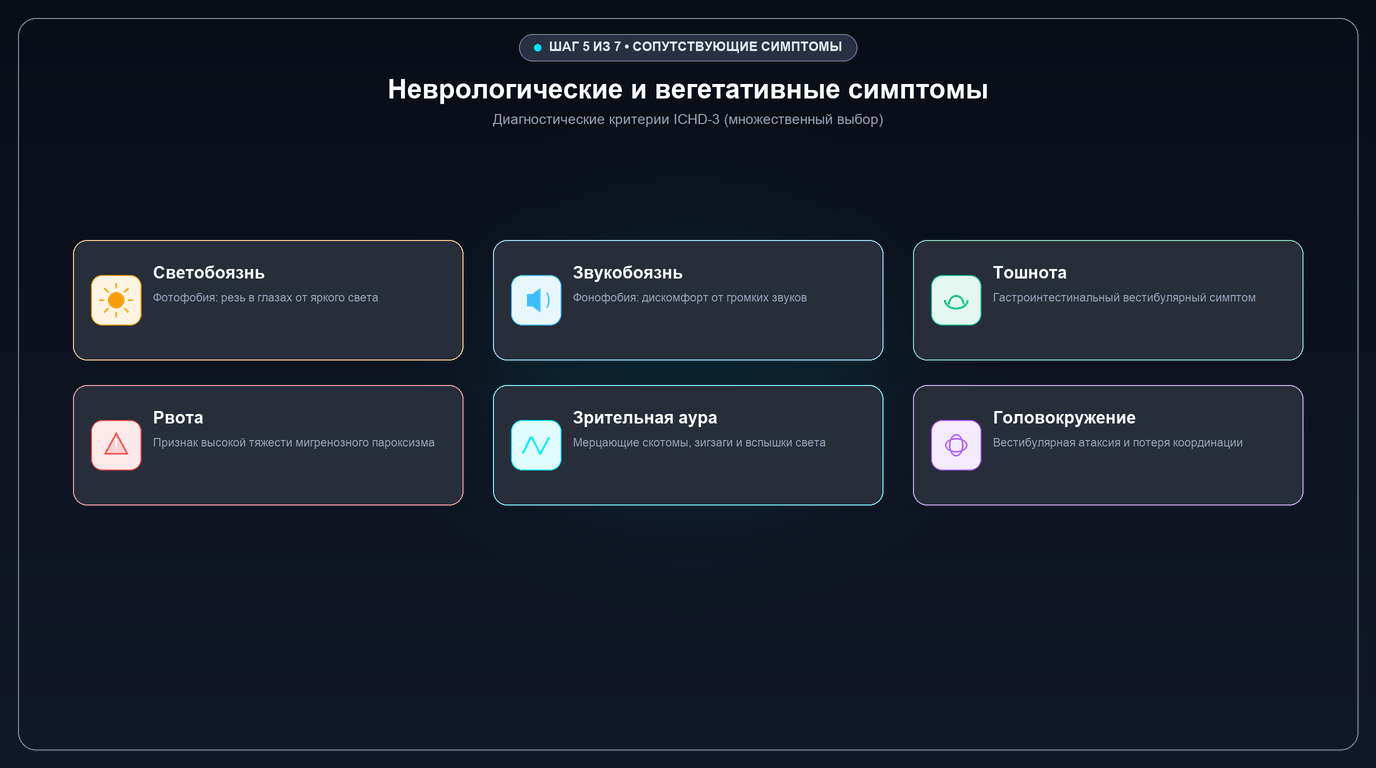
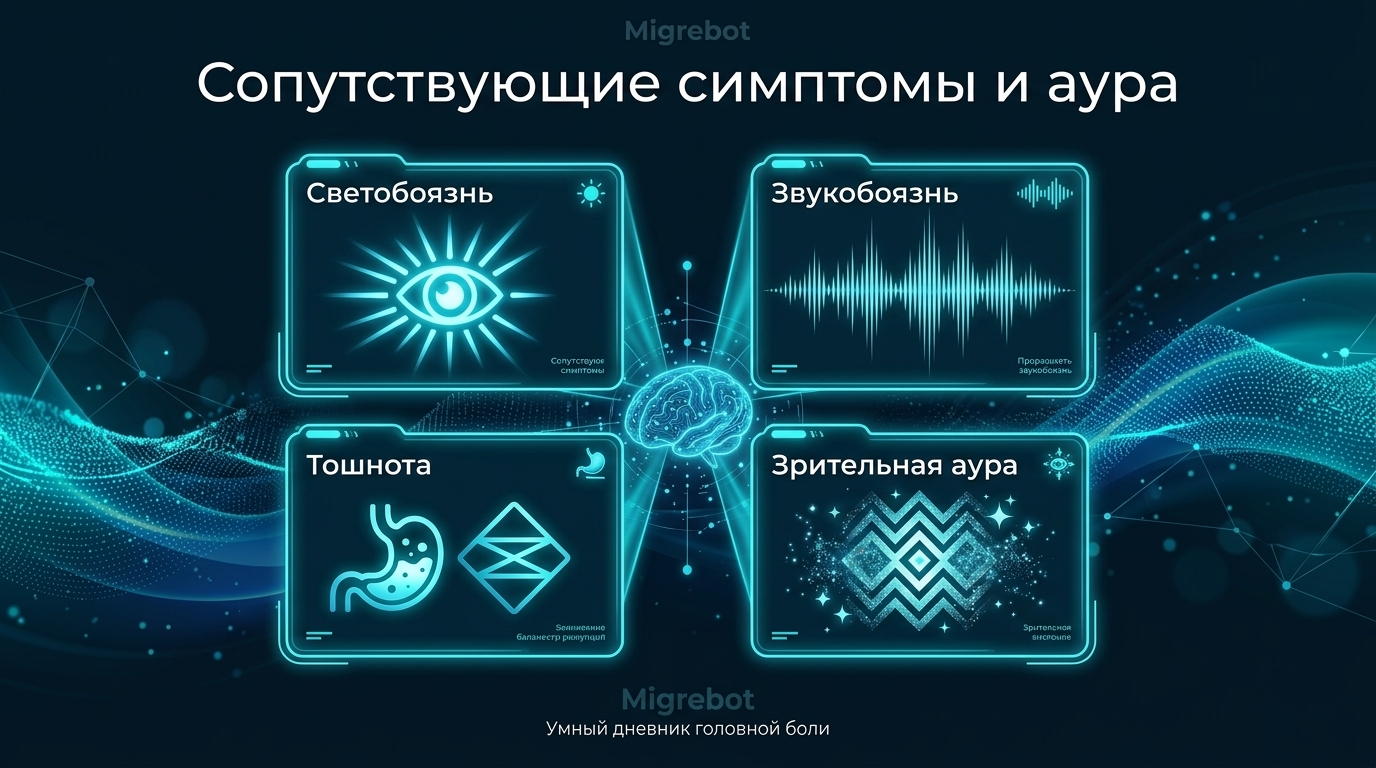
feat: redesign visual assets with high-tech UI graphics and update documentation

diff --git a/handlers/headache.py b/handlers/headache.py
@@ -51,7 +51,7 @@ def get_step_asset(step_name: str, lang: str = "ru") -> Path:
         "location": "steps/location.png",
         "pain_type": "steps/pain_type.png",
         "symptoms": "steps/symptoms.png",
-        "triggers": "steps/symptoms.png",
+        "triggers": "steps/triggers.png",
         "medication": "steps/medication.png",
         "medication_time": "steps/medication.png",
         "relief_time": "steps/saved.png",

diff --git a/tests/test_flow.py b/tests/test_flow.py
@@ -929,6 +929,7 @@ class TestHeadacheFlow(unittest.IsolatedAsyncioTestCase):
             "steps/location.png",
             "steps/pain_type.png",
             "steps/symptoms.png",
+            "steps/triggers.png",
             "steps/medication.png",
             "steps/confirm.png",
             "steps/saved.png",

diff --git a/README.md b/README.md
@@ -65,7 +65,7 @@
 ## 🌟 Основные возможности
 
 ### 1. ⏱ Пошаговый FSM-опросник с динамической сменой карточек
-- **Интерактивные переходы (`edit_media`)**: На каждом из этапов опросника в сообщении мгновенно и плавно меняется минималистичная медицинская иллюстрация (`start_time.png` ➔ `pain_scale.png` ➔ `location.png` ➔ `pain_type.png` ➔ `symptoms.png` ➔ `medication.png` ➔ `confirm.png` ➔ `saved.png`) в выбранной локали (RU/EN).
+- **Интерактивные переходы (`edit_media`)**: На каждом из этапов опросника в сообщении мгновенно и плавно сменяются высокотехнологичные визуальные карточки (`start_time.png` ➔ `pain_scale.png` ➔ `location.png` ➔ `pain_type.png` ➔ `symptoms.png` ➔ `triggers.png` ➔ `medication.png` ➔ `confirm.png` ➔ `saved.png`) в выбранной локали (RU/EN).
 - **Время начала**: Быстрые пресеты (*Прямо сейчас, 30 минут назад, 1 час, 2 часа назад*) или ввод точного времени вручную (`ЧЧ:ММ` или `ГГГГ-ММ-ДД ЧЧ:ММ`).
 - **Шкала боли (1–10)**: Интуитивная градация от едва ощутимой (1) до невыносимой (10).
 - **Локализация**: Слева, справа, с обеих сторон, лоб и виски, затылок, диффузная боль (вся голова).
@@ -148,6 +148,65 @@
   <img src="assets/images/ru/flow_diagram.png" alt="Сценарий работы Migrebot" width="100%" style="border-radius: 12px; box-shadow: 0 8px 24px rgba(0,0,0,0.15);" />
 </div>
 
+<br>
+
+### 🖼 Визуальная галерея экранов и карточек опросника
+
+<div align="center">
+<table>
+  <tr>
+    <td align="center" width="50%">
+      <b>⏱ Шаг 1: Время начала приступа</b><br>
+      <img src="assets/images/ru/steps/start_time.png" width="100%" style="border-radius: 8px; margin-top: 6px;" />
+    </td>
+    <td align="center" width="50%">
+      <b>📊 Шаг 2: Шкала интенсивности боли (1–10)</b><br>
+      <img src="assets/images/ru/steps/pain_scale.png" width="100%" style="border-radius: 8px; margin-top: 6px;" />
+    </td>
+  </tr>
+  <tr>
+    <td align="center" width="50%">
+      <b>🎯 Шаг 3: Локализация цефалгии</b><br>
+      <img src="assets/images/ru/steps/location.png" width="100%" style="border-radius: 8px; margin-top: 6px;" />
+    </td>
+    <td align="center" width="50%">
+      <b>⚡ Шаг 4: Характер боли</b><br>
+      <img src="assets/images/ru/steps/pain_type.png" width="100%" style="border-radius: 8px; margin-top: 6px;" />
+    </td>
+  </tr>
+  <tr>
+    <td align="center" width="50%">
+      <b>🩺 Шаг 5: Сопутствующие симптомы и аура</b><br>
+      <img src="assets/images/ru/steps/symptoms.png" width="100%" style="border-radius: 8px; margin-top: 6px;" />
+    </td>
+    <td align="center" width="50%">
+      <b>🌪 Шаг 6: Провоцирующие триггеры</b><br>
+      <img src="assets/images/ru/steps/triggers.png" width="100%" style="border-radius: 8px; margin-top: 6px;" />
+    </td>
+  </tr>
+  <tr>
+    <td align="center" width="50%">
+      <b>💊 Шаг 7: Препараты и дозировка</b><br>
+      <img src="assets/images/ru/steps/medication.png" width="100%" style="border-radius: 8px; margin-top: 6px;" />
+    </td>
+    <td align="center" width="50%">
+      <b>🛡 Шаг 8: Сводка и подтверждение</b><br>
+      <img src="assets/images/ru/steps/confirm.png" width="100%" style="border-radius: 8px; margin-top: 6px;" />
+    </td>
+  </tr>
+  <tr>
+    <td align="center" width="50%">
+      <b>📅 Календарь и аналитика приступов</b><br>
+      <img src="assets/images/ru/history.png" width="100%" style="border-radius: 8px; margin-top: 6px;" />
+    </td>
+    <td align="center" width="50%">
+      <b>📥 Клинический отчет для врача (PDF & CSV)</b><br>
+      <img src="assets/images/ru/export.png" width="100%" style="border-radius: 8px; margin-top: 6px;" />
+    </td>
+  </tr>
+</table>
+</div>
+
 ---
 
 ## ⌨ Команды и навигация
@@ -187,7 +246,7 @@
 migrebot_analog/
 ├── assets/
 │   ├── fonts/             # TrueType шрифты (DejaVuSans, VL-Gothic для CJK/кириллицы)
-│   ├── images/            # Минималистичные медицинские схемы и карточки (28 шт.)
+│   ├── images/            # Высокотехнологичные медицинские схемы и карточки (30 шт.)
 │   │   ├── ru/            # Локализованные ассеты на русском (hero, diagrams, history, export, steps)
 │   │   └── en/            # Локализованные ассеты на английском (hero, diagrams, history, export, steps)
 │   └── image_cache.json   # Постоянный реестр Telegram file_id с MD5-хэшами файлов
@@ -317,7 +376,7 @@ python3 -m unittest discover -s tests -v
 | `test_format_episode_card_no_raw_vomiting` | 🌐 Локализация | Отсутствие утечек сырых кодов в карточках приступов во всех языках |
 | `test_language_handler_and_switching` | 🌐 Локализация | Вызов `/language`, выбор языка, сохранение в БД и корректное переключение интерфейса |
 | `test_media_cache_functions` | ⚡ Кэш медиа | Сохранение/получение `file_id`, прозрачный fallback на `FSInputFile`, инвалидация по MD5-хэшу и изоляция локалей |
-| `test_localized_assets` | 🎨 Медиа-ассеты | Проверка наличия и точных габаритов (1376×768) всех 28 ассетов в RU и EN директориях |
+| `test_localized_assets` | 🎨 Медиа-ассеты | Проверка наличия и точных габаритов (1376×768) всех 30 ассетов в RU и EN директориях |
 | `test_csv_and_pdf_generation` | 📄 Экспорт | Сборка медицинского PDF-отчета (ReportLab Landscape A4) и CSV таблицы с колонкой триггеров без ошибок |
 | `test_cjk_and_nickname_export` | 📄 Экспорт | Поддержка кириллицы, латиницы, CJK-иероглифов и никнеймов шрифтовым стеком `VL-Gothic` |
 | `test_redis_fsm_storage_config` | 🗄 Хранилища | Изоляция ключей состояний FSM в Redis (`DefaultKeyBuilder(with_bot_id=True)`) |

diff --git a/README_ru.md b/README_ru.md
@@ -65,7 +65,7 @@
 ## 🌟 Основные возможности
 
 ### 1. ⏱ Пошаговый FSM-опросник с динамической сменой карточек
-- **Интерактивные переходы (`edit_media`)**: На каждом из этапов опросника в сообщении мгновенно и плавно меняется минималистичная медицинская иллюстрация (`start_time.png` ➔ `pain_scale.png` ➔ `location.png` ➔ `pain_type.png` ➔ `symptoms.png` ➔ `medication.png` ➔ `confirm.png` ➔ `saved.png`) в выбранной локали (RU/EN).
+- **Интерактивные переходы (`edit_media`)**: На каждом из этапов опросника в сообщении мгновенно и плавно сменяются высокотехнологичные визуальные карточки (`start_time.png` ➔ `pain_scale.png` ➔ `location.png` ➔ `pain_type.png` ➔ `symptoms.png` ➔ `triggers.png` ➔ `medication.png` ➔ `confirm.png` ➔ `saved.png`) в выбранной локали (RU/EN).
 - **Время начала**: Быстрые пресеты (*Прямо сейчас, 30 минут назад, 1 час, 2 часа назад*) или ввод точного времени вручную (`ЧЧ:ММ` или `ГГГГ-ММ-ДД ЧЧ:ММ`).
 - **Шкала боли (1–10)**: Интуитивная градация от едва ощутимой (1) до невыносимой (10).
 - **Локализация**: Слева, справа, с обеих сторон, лоб и виски, затылок, диффузная боль (вся голова).
@@ -148,6 +148,65 @@
   <img src="assets/images/ru/flow_diagram.png" alt="Сценарий работы Migrebot" width="100%" style="border-radius: 12px; box-shadow: 0 8px 24px rgba(0,0,0,0.15);" />
 </div>
 
+<br>
+
+### 🖼 Визуальная галерея экранов и карточек опросника
+
+<div align="center">
+<table>
+  <tr>
+    <td align="center" width="50%">
+      <b>⏱ Шаг 1: Время начала приступа</b><br>
+      <img src="assets/images/ru/steps/start_time.png" width="100%" style="border-radius: 8px; margin-top: 6px;" />
+    </td>
+    <td align="center" width="50%">
+      <b>📊 Шаг 2: Шкала интенсивности боли (1–10)</b><br>
+      <img src="assets/images/ru/steps/pain_scale.png" width="100%" style="border-radius: 8px; margin-top: 6px;" />
+    </td>
+  </tr>
+  <tr>
+    <td align="center" width="50%">
+      <b>🎯 Шаг 3: Локализация цефалгии</b><br>
+      <img src="assets/images/ru/steps/location.png" width="100%" style="border-radius: 8px; margin-top: 6px;" />
+    </td>
+    <td align="center" width="50%">
+      <b>⚡ Шаг 4: Характер боли</b><br>
+      <img src="assets/images/ru/steps/pain_type.png" width="100%" style="border-radius: 8px; margin-top: 6px;" />
+    </td>
+  </tr>
+  <tr>
+    <td align="center" width="50%">
+      <b>🩺 Шаг 5: Сопутствующие симптомы и аура</b><br>
+      <img src="assets/images/ru/steps/symptoms.png" width="100%" style="border-radius: 8px; margin-top: 6px;" />
+    </td>
+    <td align="center" width="50%">
+      <b>🌪 Шаг 6: Провоцирующие триггеры</b><br>
+      <img src="assets/images/ru/steps/triggers.png" width="100%" style="border-radius: 8px; margin-top: 6px;" />
+    </td>
+  </tr>
+  <tr>
+    <td align="center" width="50%">
+      <b>💊 Шаг 7: Препараты и дозировка</b><br>
+      <img src="assets/images/ru/steps/medication.png" width="100%" style="border-radius: 8px; margin-top: 6px;" />
+    </td>
+    <td align="center" width="50%">
+      <b>🛡 Шаг 8: Сводка и подтверждение</b><br>
+      <img src="assets/images/ru/steps/confirm.png" width="100%" style="border-radius: 8px; margin-top: 6px;" />
+    </td>
+  </tr>
+  <tr>
+    <td align="center" width="50%">
+      <b>📅 Календарь и аналитика приступов</b><br>
+      <img src="assets/images/ru/history.png" width="100%" style="border-radius: 8px; margin-top: 6px;" />
+    </td>
+    <td align="center" width="50%">
+      <b>📥 Клинический отчет для врача (PDF & CSV)</b><br>
+      <img src="assets/images/ru/export.png" width="100%" style="border-radius: 8px; margin-top: 6px;" />
+    </td>
+  </tr>
+</table>
+</div>
+
 ---
 
 ## ⌨ Команды и навигация
@@ -187,7 +246,7 @@
 migrebot_analog/
 ├── assets/
 │   ├── fonts/             # TrueType шрифты (DejaVuSans, VL-Gothic для CJK/кириллицы)
-│   ├── images/            # Минималистичные медицинские схемы и карточки (28 шт.)
+│   ├── images/            # Высокотехнологичные медицинские схемы и карточки (30 шт.)
 │   │   ├── ru/            # Локализованные ассеты на русском (hero, diagrams, history, export, steps)
 │   │   └── en/            # Локализованные ассеты на английском (hero, diagrams, history, export, steps)
 │   └── image_cache.json   # Постоянный реестр Telegram file_id с MD5-хэшами файлов
@@ -317,7 +376,7 @@ python3 -m unittest discover -s tests -v
 | `test_format_episode_card_no_raw_vomiting` | 🌐 Локализация | Отсутствие утечек сырых кодов в карточках приступов во всех языках |
 | `test_language_handler_and_switching` | 🌐 Локализация | Вызов `/language`, выбор языка, сохранение в БД и корректное переключение интерфейса |
 | `test_media_cache_functions` | ⚡ Кэш медиа | Сохранение/получение `file_id`, прозрачный fallback на `FSInputFile`, инвалидация по MD5-хэшу и изоляция локалей |
-| `test_localized_assets` | 🎨 Медиа-ассеты | Проверка наличия и точных габаритов (1376×768) всех 28 ассетов в RU и EN директориях |
+| `test_localized_assets` | 🎨 Медиа-ассеты | Проверка наличия и точных габаритов (1376×768) всех 30 ассетов в RU и EN директориях |
 | `test_csv_and_pdf_generation` | 📄 Экспорт | Сборка медицинского PDF-отчета (ReportLab Landscape A4) и CSV таблицы с колонкой триггеров без ошибок |
 | `test_cjk_and_nickname_export` | 📄 Экспорт | Поддержка кириллицы, латиницы, CJK-иероглифов и никнеймов шрифтовым стеком `VL-Gothic` |
 | `test_redis_fsm_storage_config` | 🗄 Хранилища | Изоляция ключей состояний FSM в Redis (`DefaultKeyBuilder(with_bot_id=True)`) |

diff --git a/README_en.md b/README_en.md
@@ -65,7 +65,7 @@ Fully asynchronous, resilient microservice-like architecture integrating Python,
 ## 🌟 Key Features
 
 ### 1. ⏱ Step-by-Step FSM Questionnaire with Dynamic Card Transitions
-- **Smooth `edit_media` Transitions**: Across questionnaire stages, the bot smoothly updates a dedicated minimalist medical illustration (`start_time.png` ➔ `pain_scale.png` ➔ `location.png` ➔ `pain_type.png` ➔ `symptoms.png` ➔ `medication.png` ➔ `confirm.png` ➔ `saved.png`) in the chosen language (RU/EN).
+- **Smooth `edit_media` Transitions**: Across questionnaire stages, the bot smoothly updates high-tech visual cards (`start_time.png` ➔ `pain_scale.png` ➔ `location.png` ➔ `pain_type.png` ➔ `symptoms.png` ➔ `triggers.png` ➔ `medication.png` ➔ `confirm.png` ➔ `saved.png`) in the chosen language (RU/EN).
 - **Start Time**: Quick presets (*Right now, 30 min ago, 1 hour ago, 2 hours ago*) or manual custom time entry (`HH:MM` or `YYYY-MM-DD HH:MM`).
 - **Pain Scale (1–10)**: Clear intensity rating from mild (1) to unbearable (10).
 - **Localization**: Left side, right side, both sides, forehead and temples, back of head, diffuse pain.
@@ -146,6 +146,65 @@ Interactive flow from initial recording to automated follow-up, persistent stora
   <img src="assets/images/en/flow_diagram.png" alt="Migrebot User Workflow" width="100%" style="border-radius: 12px; box-shadow: 0 8px 24px rgba(0,0,0,0.15);" />
 </div>
 
+<br>
+
+### 🖼 Bot Screen & Step Card Gallery
+
+<div align="center">
+<table>
+  <tr>
+    <td align="center" width="50%">
+      <b>⏱ Step 1: Headache Onset Time</b><br>
+      <img src="assets/images/en/steps/start_time.png" width="100%" style="border-radius: 8px; margin-top: 6px;" />
+    </td>
+    <td align="center" width="50%">
+      <b>📊 Step 2: Pain Intensity Scale (1–10)</b><br>
+      <img src="assets/images/en/steps/pain_scale.png" width="100%" style="border-radius: 8px; margin-top: 6px;" />
+    </td>
+  </tr>
+  <tr>
+    <td align="center" width="50%">
+      <b>🎯 Step 3: Pain Localization</b><br>
+      <img src="assets/images/en/steps/location.png" width="100%" style="border-radius: 8px; margin-top: 6px;" />
+    </td>
+    <td align="center" width="50%">
+      <b>⚡ Step 4: Pain Type & Character</b><br>
+      <img src="assets/images/en/steps/pain_type.png" width="100%" style="border-radius: 8px; margin-top: 6px;" />
+    </td>
+  </tr>
+  <tr>
+    <td align="center" width="50%">
+      <b>🩺 Step 5: Accompanying Symptoms & Aura</b><br>
+      <img src="assets/images/en/steps/symptoms.png" width="100%" style="border-radius: 8px; margin-top: 6px;" />
+    </td>
+    <td align="center" width="50%">
+      <b>🌪 Step 6: Provoking Triggers</b><br>
+      <img src="assets/images/en/steps/triggers.png" width="100%" style="border-radius: 8px; margin-top: 6px;" />
+    </td>
+  </tr>
+  <tr>
+    <td align="center" width="50%">
+      <b>💊 Step 7: Medication & Dosage</b><br>
+      <img src="assets/images/en/steps/medication.png" width="100%" style="border-radius: 8px; margin-top: 6px;" />
+    </td>
+    <td align="center" width="50%">
+      <b>🛡 Step 8: Summary & Confirmation</b><br>
+      <img src="assets/images/en/steps/confirm.png" width="100%" style="border-radius: 8px; margin-top: 6px;" />
+    </td>
+  </tr>
+  <tr>
+    <td align="center" width="50%">
+      <b>📅 Episode Calendar & History</b><br>
+      <img src="assets/images/en/history.png" width="100%" style="border-radius: 8px; margin-top: 6px;" />
+    </td>
+    <td align="center" width="50%">
+      <b>📥 Clinical Report Export (PDF & CSV)</b><br>
+      <img src="assets/images/en/export.png" width="100%" style="border-radius: 8px; margin-top: 6px;" />
+    </td>
+  </tr>
+</table>
+</div>
+
 ---
 
 ## ⌨ Commands & Navigation
@@ -185,7 +244,7 @@ Interactive flow from initial recording to automated follow-up, persistent stora
 migrebot_analog/
 ├── assets/
 │   ├── fonts/             # TrueType fonts (DejaVuSans, VL-Gothic for CJK/Cyrillic)
-│   ├── images/            # Minimalist medical cards & diagrams (28 files)
+│   ├── images/            # High-tech medical illustrations & step cards (30 files)
 │   │   ├── ru/            # Russian assets (hero, diagrams, history, export, steps)
 │   │   └── en/            # English assets (hero, diagrams, history, export, steps)
 │   └── image_cache.json   # Persistent registry of Telegram photo file_ids & MD5 hashes
@@ -315,7 +374,7 @@ python3 -m unittest discover -s tests -v
 | `test_format_episode_card_no_raw_vomiting` | 🌐 Localization | Zero technical code leakage in formatted episode cards across all languages |
 | `test_language_handler_and_switching` | 🌐 Localization | `/language` command, language callback processing, DB storage, and prompt updating |
 | `test_media_cache_functions` | ⚡ Media Cache | Permanent `file_id` storage & retrieval, fallback to `FSInputFile`, MD5 hash invalidation, and locale isolation |
-| `test_localized_assets` | 🎨 Media Assets | Verification of existence and dimensions (1376×768) of all 28 assets in RU and EN folders |
+| `test_localized_assets` | 🎨 Media Assets | Verification of existence and dimensions (1376×768) of all 30 assets in RU and EN folders |
 | `test_csv_and_pdf_generation` | 📄 Export | Generation of clinical PDF reports (ReportLab Landscape A4) and UTF-8 BOM CSV tables with triggers column |
 | `test_cjk_and_nickname_export` | 📄 Export | Support for Cyrillic, Latin, CJK characters, and usernames via the `VL-Gothic` font stack |
 | `test_redis_fsm_storage_config` | 🗄 Storage | Key namespace isolation for FSM states in Redis (`DefaultKeyBuilder(with_bot_id=True)`) |
